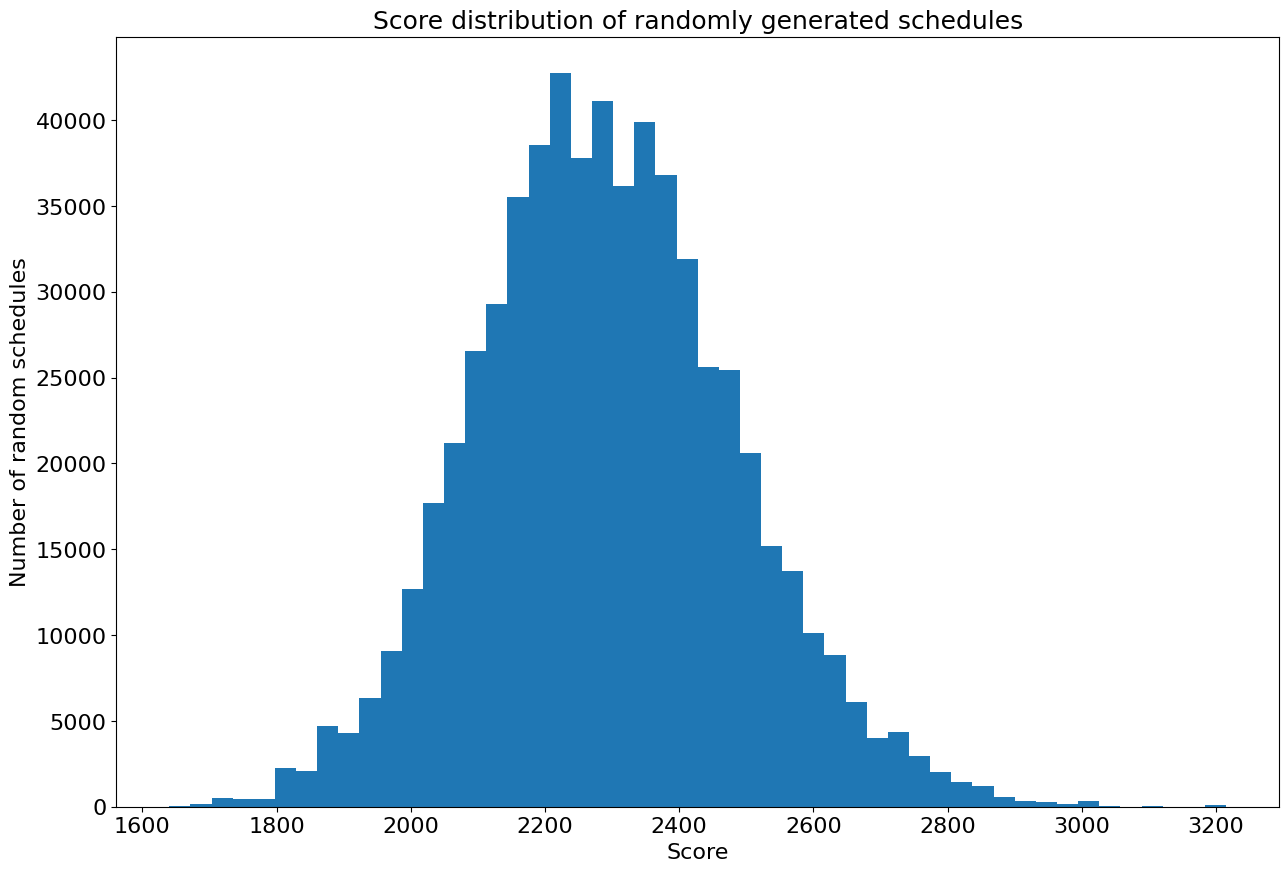
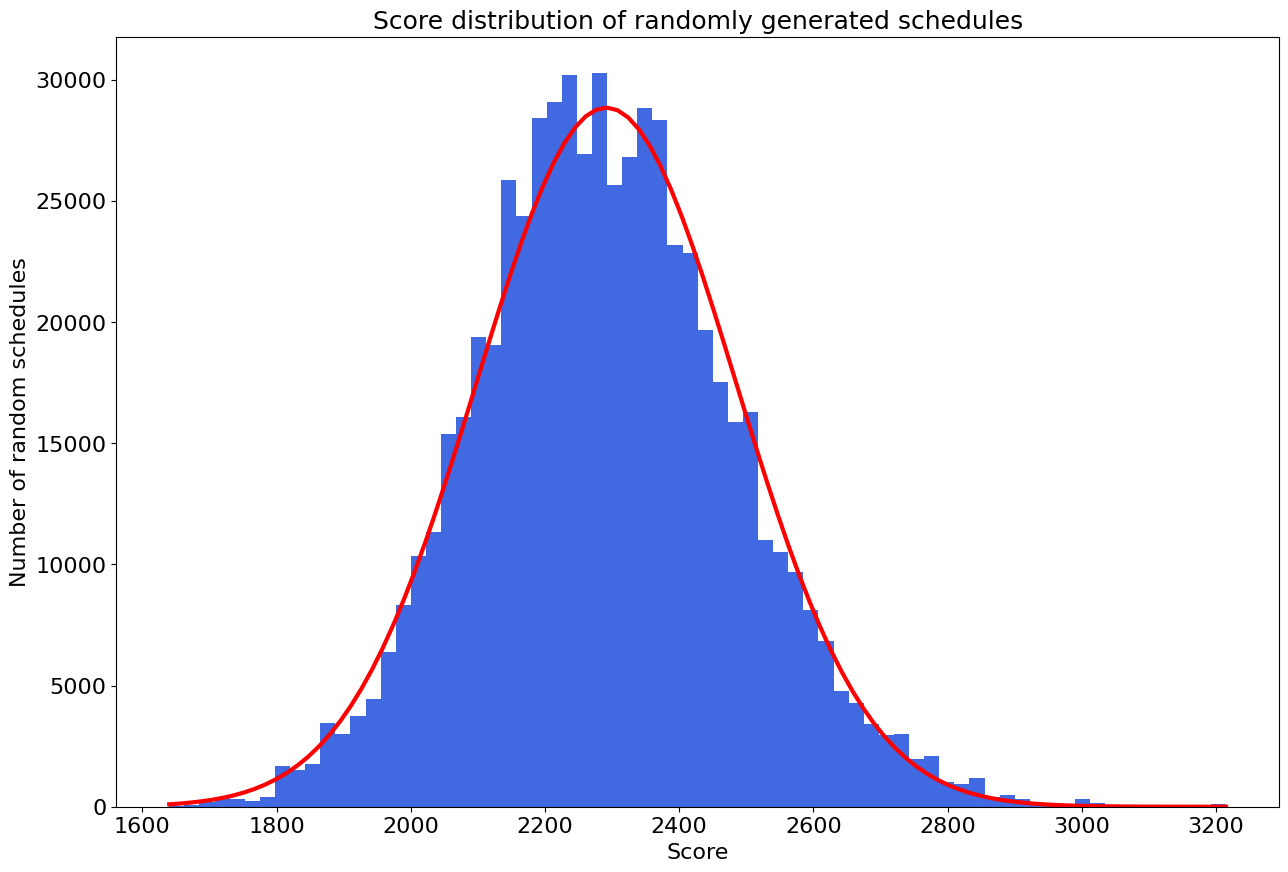
gaussian added

diff --git a/libraries/helpers/score_histogram.py b/libraries/helpers/score_histogram.py
@@ -1,5 +1,6 @@
 import matplotlib.pyplot as plt
 import numpy as np
+import scipy.stats as ss 
 
 def plot_histogram(data_file='../../baseline.txt', output_path='../../images/', output_name='score_distribution_random_schedules', save=True):
     
@@ -14,14 +15,22 @@ def plot_histogram(data_file='../../baseline.txt', output_path='../../images/', 
     
     plt.figure(figsize=(15, 10))
     
-    plt.hist(random_scores, bins=50)
+    result = plt.hist(random_scores, bins=70, color='royalblue')[0:len(random_scores)-1000]
 
     plt.ylabel('Number of random schedules', fontsize=16)
     plt.xlabel('Score', fontsize=16)
     plt.xticks(fontsize=16)
     plt.yticks(fontsize=16)
     plt.title("Score distribution of randomly generated schedules", fontsize=18)
-    plt.show()
 
+    # gaussian    
+    mean     = np.mean(random_scores)
+    variance = np.var(random_scores)
+    sigma    = np.sqrt(variance)
+    x  = np.linspace(min(random_scores), max(random_scores), 100)
+    dx = result[1][1] - result[1][0]
+    scale = len(random_scores)*dx
+    plt.plot(x, ss.norm.pdf(x, mean, sigma)*scale, 'r-', linewidth=3)
+    
     if save:
         plt.savefig(f'{output_path}{output_name}.png', bbox_inches='tight')
